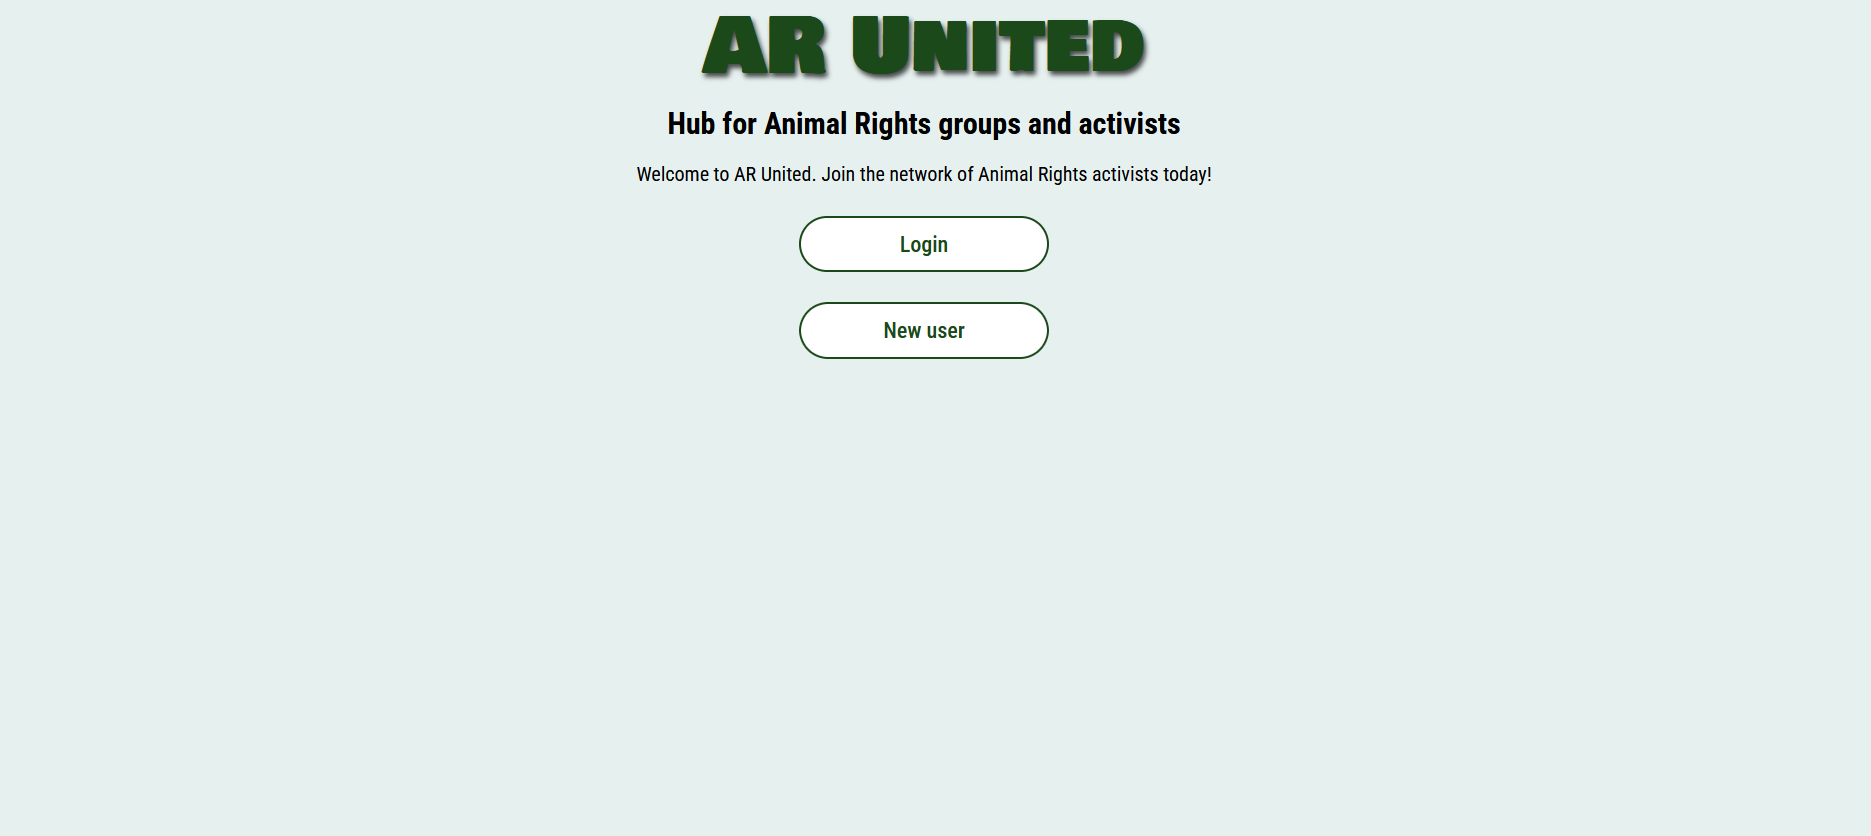
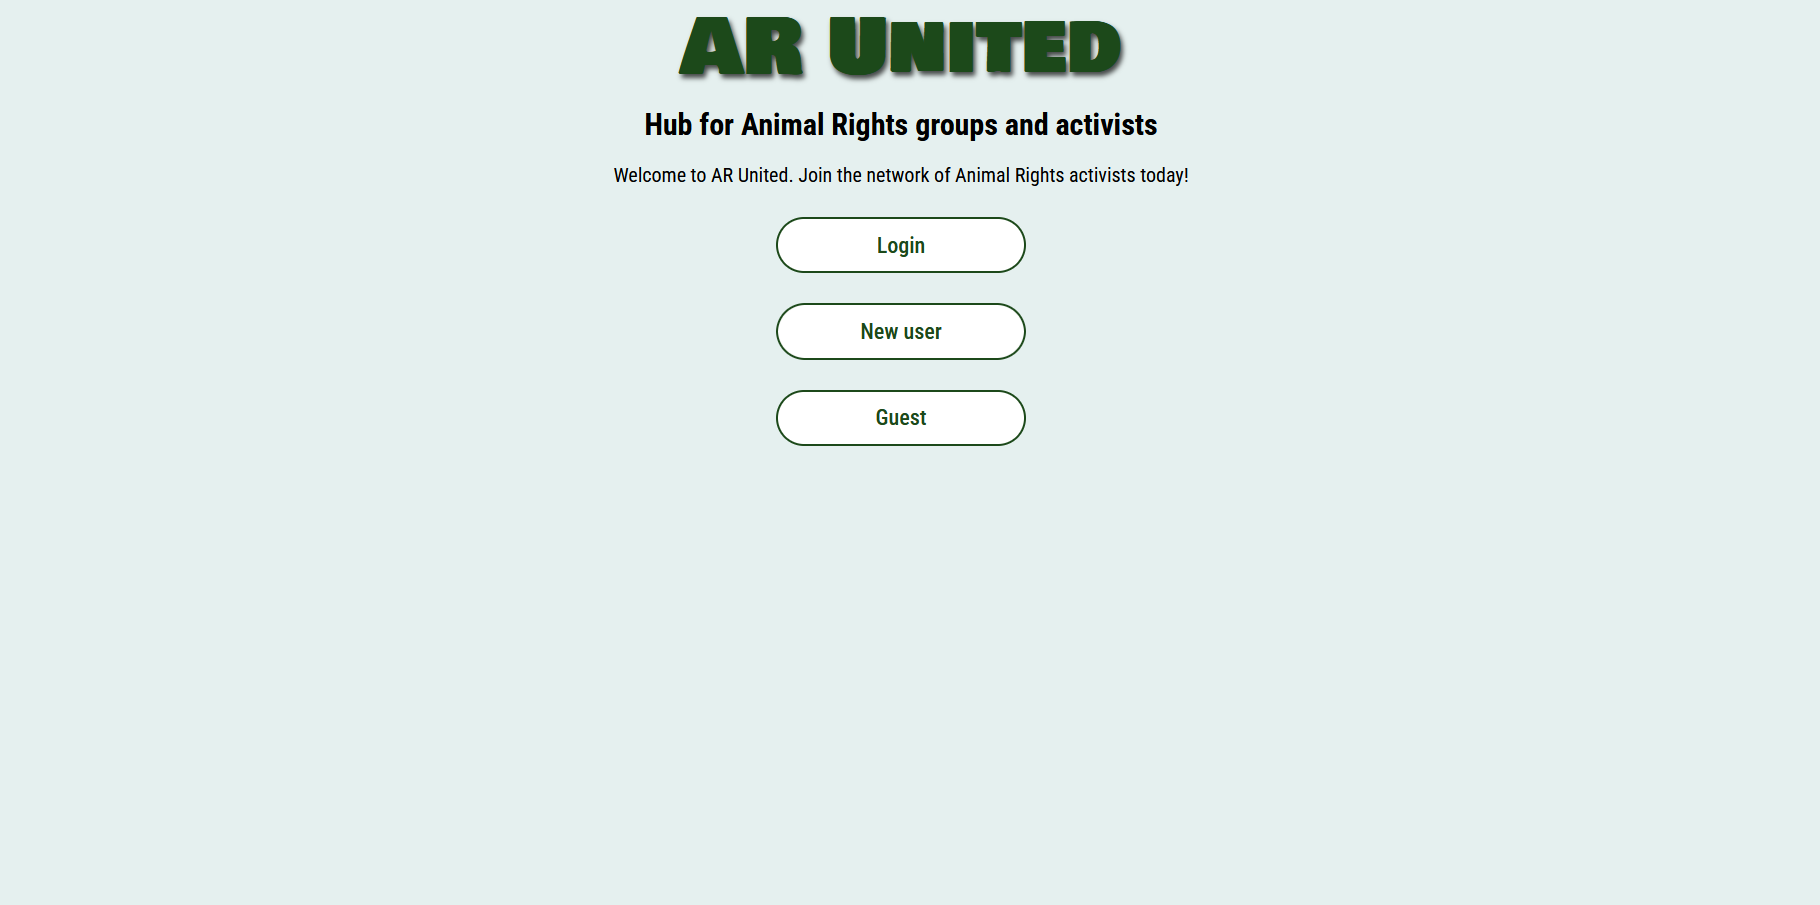
installation update

Changed region(s): [[0.3385, 0.1244, 0.6462, 0.4976], [0.3692, 0.0, 0.6154, 0.0933]]

diff --git a/app/pages/home.js b/app/pages/home.js
@@ -26,16 +26,17 @@ export function homeEvents() {
     window.location.assign("/create_account");
   });
   guest.addEventListener("click", async () => {
-    const n = Math.floor(Math.random() * 1000000);
+    const emailRNG = Math.floor(Math.random() * 1000000);
+    const passwordRNG = Math.floor(Math.random() * 100000000);
     const data = {
       first_name: "Guest",
       last_name: "Account",
       dob: "1970-01-01T00:00:00Z",
-      email: `${n}@guest.com`,
-      password: "Pazzword6",
+      email: `${emailRNG}@guest.com`,
+      password: passwordRNG,
     };
     await newAccount(data);
-    const loginData = { email: `${n}@guest.com`, password: "Pazzword6" };
+    const loginData = { email: data.email, password: data.password };
     await userLogin(loginData);
     await deleteGuest();
   });

diff --git a/main.go b/main.go
@@ -76,7 +76,7 @@ func main() {
 	}
 	supabaseURL := os.Getenv("SUPABASE_URL")
 	if supabaseURL == "" {
-		if host == "nonlocal" {
+		if host == "local" {
 			log.Println("No SUPABASE_URL set")
 		} else {
 			log.Fatal("SUPABASE_URL environment variable is not set")
@@ -84,7 +84,7 @@ func main() {
 	}
 	supabaseKey := os.Getenv("SUPABASE_KEY")
 	if supabaseKey == "" {
-		if host == "nonlocal" {
+		if host == "local" {
 			log.Println("No SUPABASE_KEY set")
 		} else {
 			log.Fatal("SUPABASE_KEY environment variable is not set")

diff --git a/README.md b/README.md
@@ -4,6 +4,8 @@ A full-stack web application hub for animal rights groups and activists to netwo
 
 Create an account, search my profile George Harris and add me as an ally!
 
+Alternatively view the website as a guest and experience all the same features. Guest accounts will be deleted after 1 hour.
+
 Live Site: [https://https://ar-united.onrender.com/](https://ar-united.onrender.com/)
 
 ![home](/images/image-1.png)
@@ -28,7 +30,7 @@ Live Site: [https://https://ar-united.onrender.com/](https://ar-united.onrender.
 
 <img src="images/image-3.png" alt="Example" width="400"/>
 
-## Contributing
+## Installation
 
 - Clone the repo and build the app:
 
@@ -138,6 +140,12 @@ Returns a specific user by the slug in their URL
 
 Returns a list of the users allies (users)
 
+### DELETE /api/users/
+
+**Headers:** Authorization: Bearer <your_JWT_here>
+
+Deletes specified user account
+
 ### GET /api/users/{userID}/posts
 
 Returns a list of the users posts
@@ -174,7 +182,7 @@ Returns a specific post by its ID
 }
 ```
 
-**Headers:** Authorization <your_JWT_here>
+**Headers:** Authorization: Bearer <your_JWT_here>
 
 Creates a post on users profile
 
@@ -186,7 +194,7 @@ Creates a post on users profile
 }
 ```
 
-**Headers:** Authorization <your_JWT_here>
+**Headers:** Authorization: Bearer <your_JWT_here>
 
 Creates a post on the specified group run by the user
 
@@ -198,7 +206,7 @@ Creates a post on the specified group run by the user
 }
 ```
 
-**Headers:** Authorization <your_JWT_here>
+**Headers:** Authorization: Bearer <your_JWT_here>
 
 Creates a post on the specified event run by the user
 
